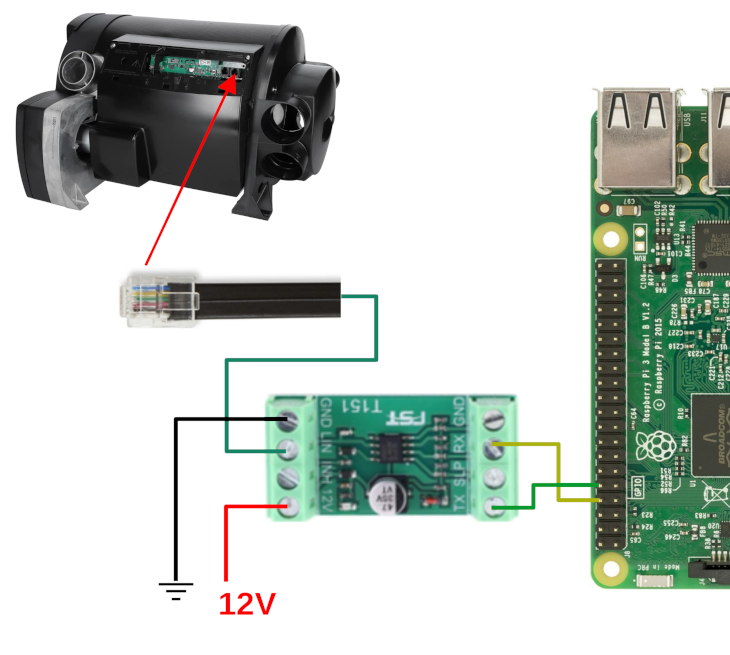
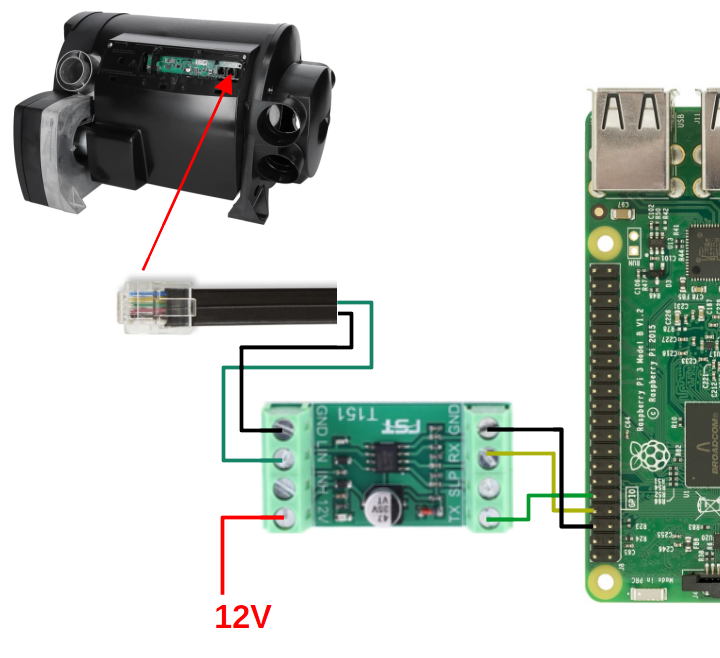
Update description to address Issue #14

diff --git a/README.md b/README.md
@@ -24,16 +24,17 @@ The software runs on a Raspberry Pi, any newer model should do. This could also 
 
 You need a [LIN to UART Transceiver](https://amzn.to/3E1qITr) (Affiliate Link!) for connecting the Raspberry Pi to the LIN bus. On the transceiver module, the connections are as follows:
 
- * **GND** (any of the two) connects to a ground connection - e.g. on the power supply.
  * **12V** connects to a 12V power supply that also powers the Combi and CP Plus.
- * **TX** connects to pin 15 on the Raspberry Pi.
- * **RX** connects to pin 14 on the Raspberry Pi (14/15 might be the other way round, not sure).
- * **LIN** connects to an RJ12 connector (alias 6P6C, the one with 6 pins) going into any port on the Truma Combi heating, or using a [splitter module](https://amzn.to/3dL4bzT) (Affiliate Link!) into the existing connection between Combi and the control panel. Use standard RJ12 cables for the connection. The relevant pin is highlighted in this picture: 
+ * **TX** connects to GPIO 15 on the Raspberry Pi (RX).
+ * **RX** connects to GPIO 14 on the Raspberry Pi (TX).
+ * **LIN** connects to the RJ12 connector (see below), Pin 3. 
+ * **GND** connects to the RJ12 connector (see below), Pin 5.
+ * The second **GND** should connect to one of the GND pins on the Raspberry Pi.
+ * The other pins (**INH** and **SLP**) are not used.
+
+ The RJ12 connector (alias 6P6C, the one with 6 pins) goes to any port on the Truma Combi heating, or using a [splitter module](https://amzn.to/3dL4bzT) (Affiliate Link!) into the existing connection between Combi and the control panel. Use standard RJ12 cables for the connection. The relevant pins are highlighted in this picture: 
 
 ![LIN Pin](./docs/pinout.jpg)
-
-The other pins (**INH**, **SLP**, second **GND**) are not used.
-
 
 ![Connections](./docs/connections.png)
 
